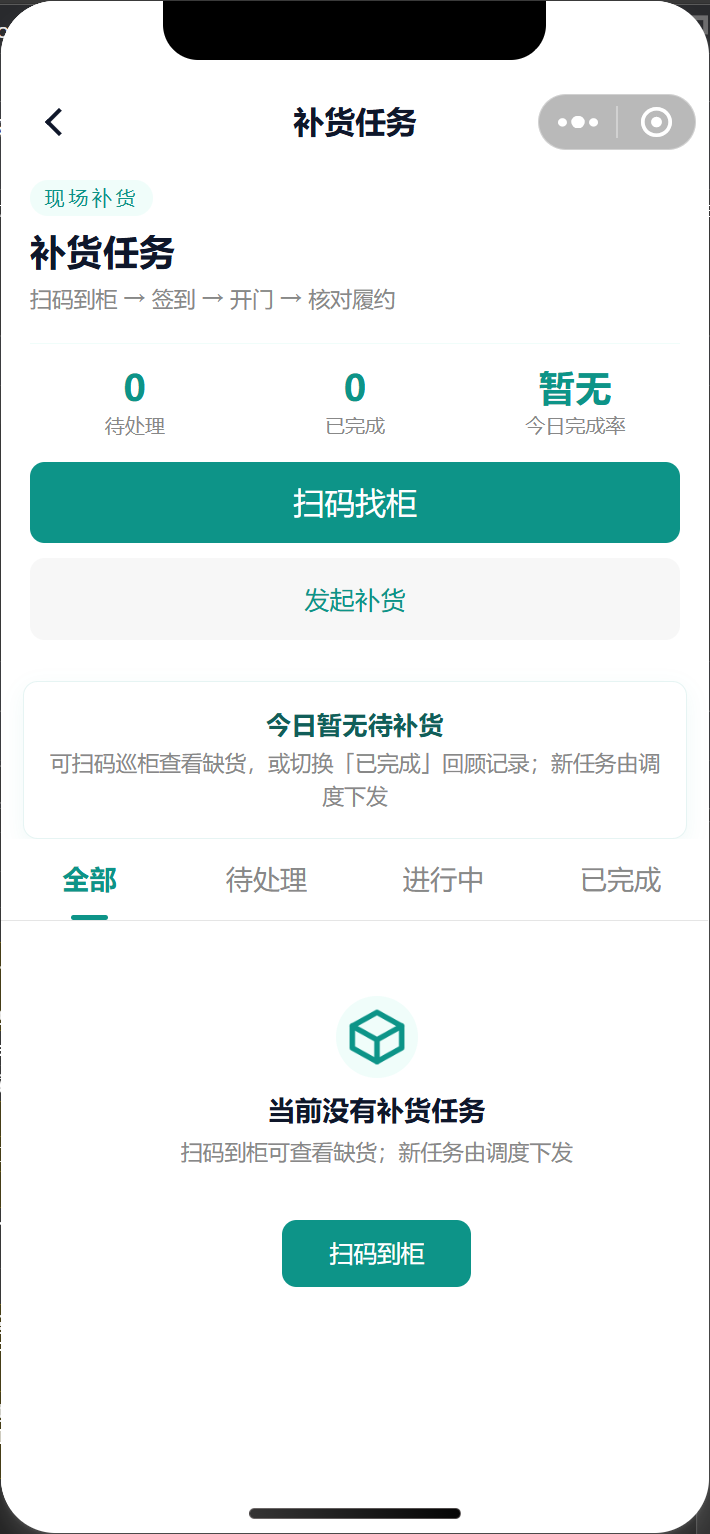
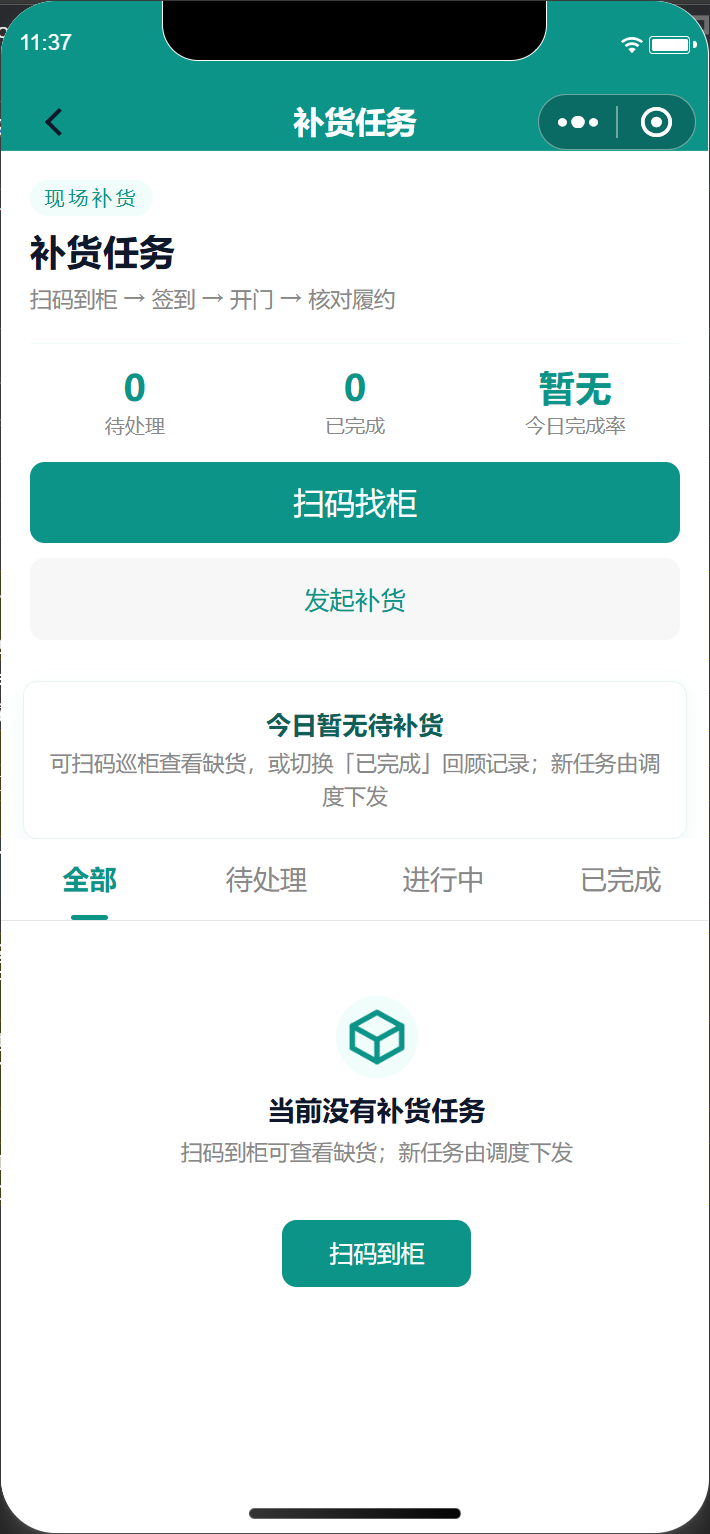
style(mp): 顶栏改绿真正生效——改的是 tokens 与组件默认值，不是 class
排查链：① pages.json 只管原生导航，本页 navigationStyle:custom ⇒ 无效；
② app-nav-bar 组件用内联 style（background: props.bg / color: props.color），class 覆盖不了；
③ bg 默认 var(--nav-bar-bg, #ffffff)、color 默认实色 #0f172a ⇒ 改两端 App.vue 的 --nav-bar-bg=#0d9488
   并把组件 color 默认改 #ffffff（组件注释说明内联 var() 偶发解析失败，故颜色用实色）。
截图复核：顶栏绿底白字、箭头/胶囊对齐正常（evidence/style-replenishment-v2.png）。

diff --git a/packages/shared-uni/src/components/app-nav-bar.vue b/packages/shared-uni/src/components/app-nav-bar.vue
@@ -51,7 +51,8 @@ const props = withDefaults(
     title: '',
     bg: 'var(--nav-bar-bg, #ffffff)',
     // 小程序内联 style 对 CSS 变量偶发解析失败，标题会掉成正文色；默认用实色深字（白导航）
-    color: '#0f172a',
+    // 顶栏改品牌绿后标题必须是白字（内联 style 对 CSS 变量偶发解析失败，故用实色）
+    color: '#ffffff',
     homeUrl: '/pages/index/index',
     hideBack: false
   }

diff --git a/clients/consumer-mp/src/App.vue b/clients/consumer-mp/src/App.vue
@@ -72,7 +72,7 @@ uni-page-body {
   --on-deep-opacity-92: 0.92;
   --on-deep-opacity-95: 0.95;
   /* 自定义导航栏（AppNavBar）在消费端的提亮底色 */
-  --nav-bar-bg: #ffffff;
+  --nav-bar-bg: #0d9488;
   --color-primary: var(--brand);
   --color-primary-deep: var(--brand-deep);
   --color-primary-soft: var(--brand-soft);

diff --git a/clients/merchant-mp/src/App.vue b/clients/merchant-mp/src/App.vue
@@ -97,7 +97,7 @@ uni-page-body {
   --color-bg-page: var(--page-bg);
   --page-tint: #ededed;
   --page-bg: #ededed;
-  --nav-bar-bg: #ffffff;
+  --nav-bar-bg: #0d9488;
   --page-gutter: 24rpx;
   --spacing-sm: 12rpx;
   --spacing-md: 16rpx;
